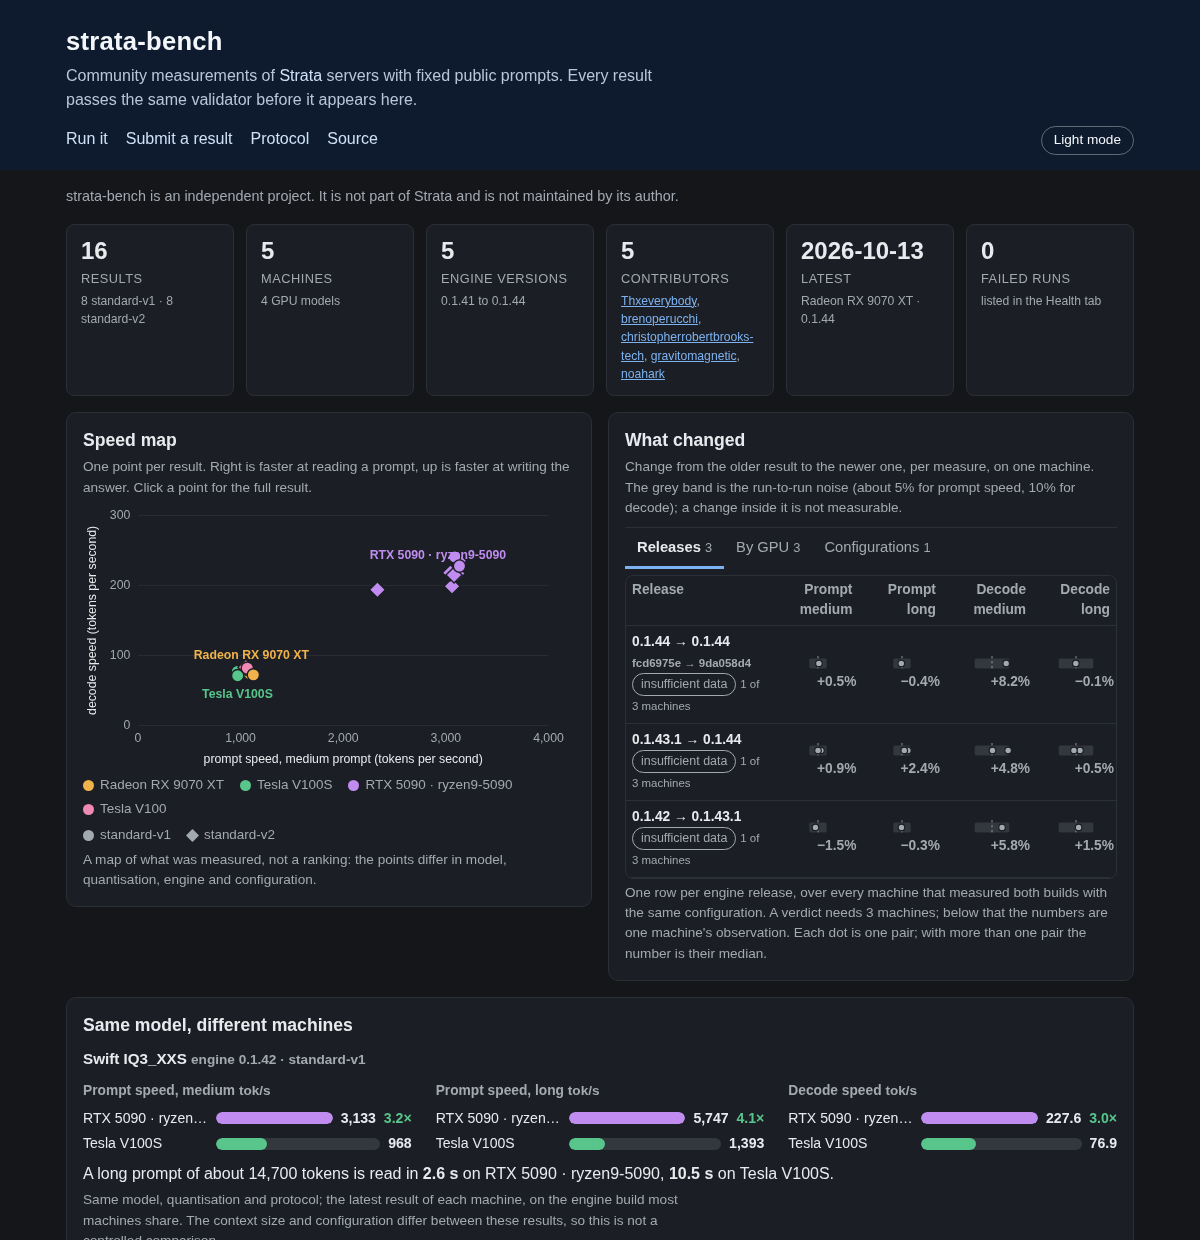
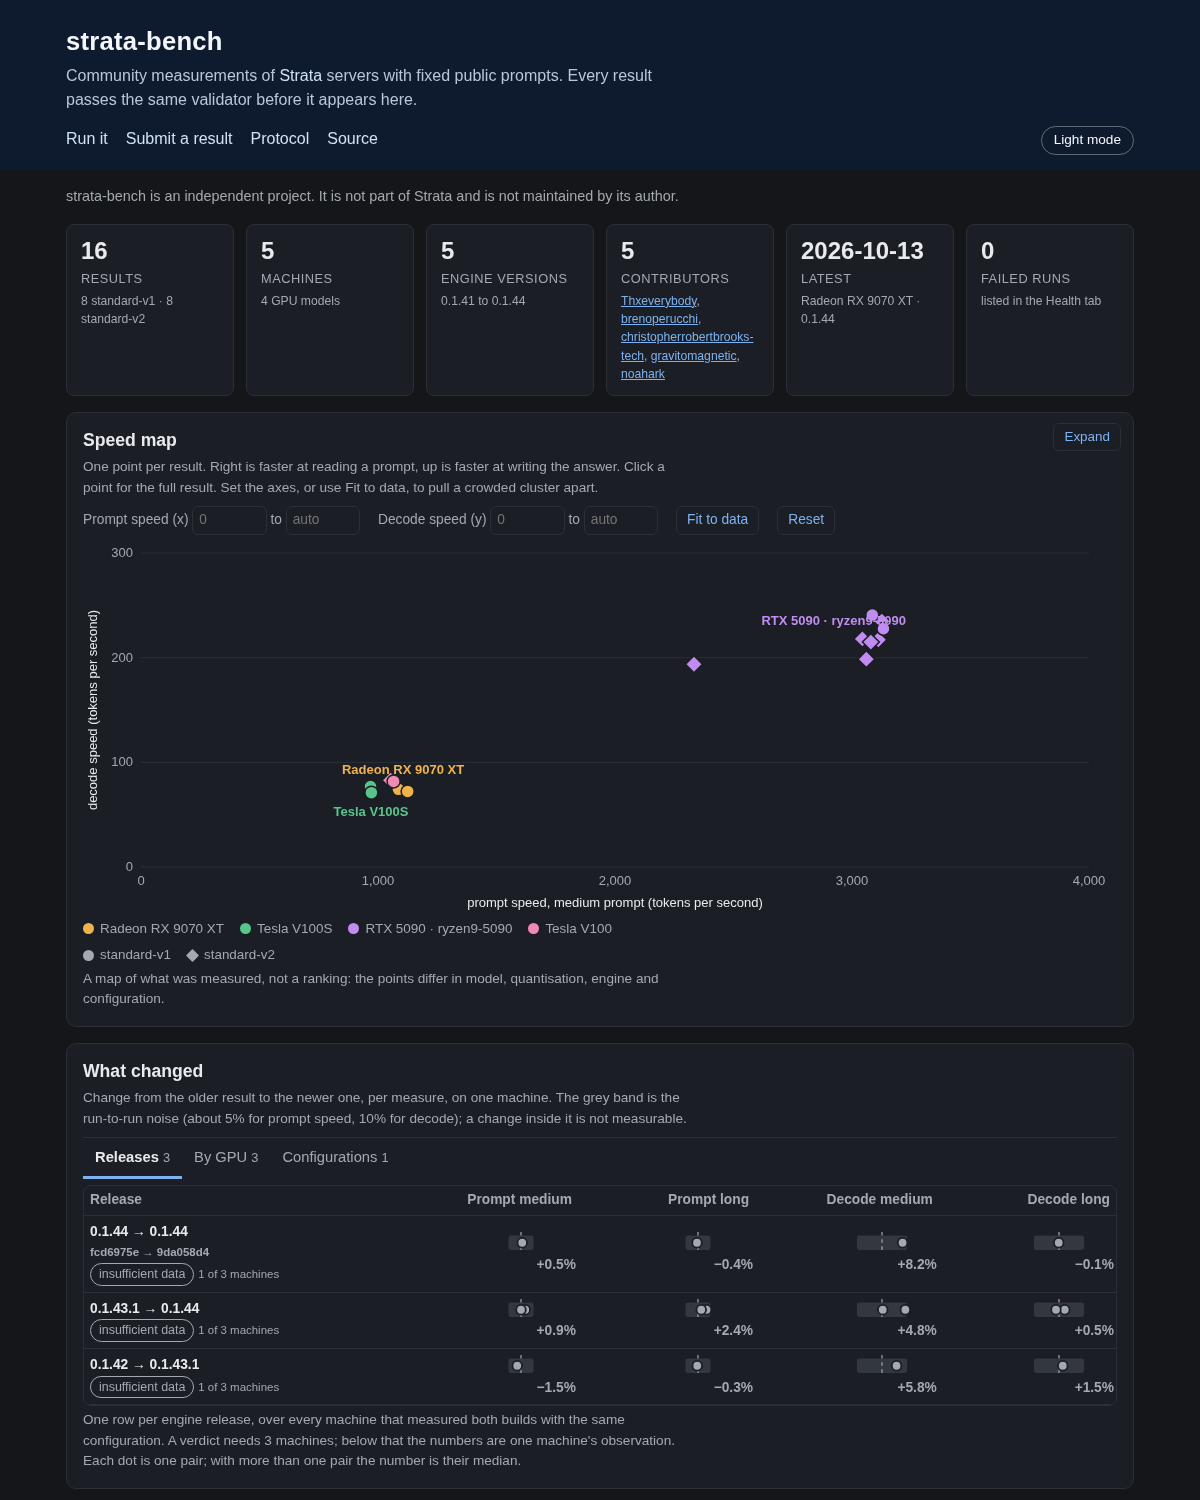
Overview: speed map and What changed at full width, speed map axes that can be set or fitted to the data
The speed map is drawn at the width its card has (and again when expanded). Its axes take a typed range or Fit to data, so results that sit close together can be pulled apart; results outside the range are counted, not hidden. README screenshots refreshed.

diff --git a/docs/overview.js b/docs/overview.js
@@ -40,16 +40,42 @@
 
   var niceStep = function (v) { var p = Math.pow(10, Math.floor(Math.log10(v))), n = v / p; return (n <= 1 ? 1 : n <= 2 ? 2 : n <= 5 ? 5 : 10) * p; };
 
-  function speedMap(rows) {
+  // The axes the map opens with start at zero; fit() gives the ones that just hold the data, so a cluster of results can be pulled apart.
+  var numOr = function (v) { return typeof v === "number" && isFinite(v) ? v : null; };
+  function fit(rows) {
     var pts = I.speedPoints(rows);
-    if (!pts.length) return "";
-    var mc = machines(rows), W = 520, H = 280, L = 58, R = 28, T = 12, B = 46;
-    var mx = Math.max.apply(null, pts.map(function (p) { return p.x; })) * 1.06, my = Math.max.apply(null, pts.map(function (p) { return p.y; })) * 1.12;
-    var sx = niceStep(mx / 4), sy = niceStep(my / 4), xmax = Math.ceil(mx / sx) * sx, ymax = Math.ceil(my / sy) * sy;
-    var X = function (v) { return L + (W - L - R) * v / xmax; }, Y = function (v) { return H - B - (H - B - T) * v / ymax; };
+    if (!pts.length) return null;
+    var span = function (vals) {
+      var lo = Math.min.apply(null, vals), hi = Math.max.apply(null, vals), pad = Math.max((hi - lo) * 0.1, hi * 0.02, 1e-6), step = niceStep((hi - lo + 2 * pad) / 6);
+      return [Math.max(0, Math.floor((lo - pad) / step) * step), Math.ceil((hi + pad) / step) * step];
+    };
+    var x = span(pts.map(function (p) { return p.x; })), y = span(pts.map(function (p) { return p.y; }));
+    return { xmin: x[0], xmax: x[1], ymin: y[0], ymax: y[1] };
+  }
+
+  // The map is drawn at the width its card has (in CSS pixels, so the text stays at its size): wide on a desktop, narrow on a phone, larger still when expanded.
+  // view = {xmin, xmax, ymin, ymax}: any of them may be missing (zero, or room for the data); results outside the range are left out and counted.
+  function speedMap(rows, width, view) {
+    var all = I.speedPoints(rows);
+    if (!all.length) return "";
+    view = view || {};
+    var W = Math.max(320, Math.min(1400, Math.round(width) || 520)), H = Math.max(260, Math.min(520, Math.round(W * 0.36)));
+    var mc = machines(rows), L = 58, R = 28, T = 12, B = 46;
+    var axis = function (key, grow) {
+      var lo = numOr(view[key + "min"]), hi = numOr(view[key + "max"]), top = Math.max.apply(null, all.map(function (p) { return p[key]; })) * grow;
+      lo = lo === null ? 0 : lo;
+      var open = hi === null || hi <= lo;                          // no usable upper end: leave room for the data
+      if (open) hi = Math.max(top, lo + 1e-6);
+      var step = niceStep((hi - lo) / 4);
+      return { min: lo, max: open ? lo + Math.ceil((hi - lo) / step) * step : hi, step: step };
+    };
+    var ax = axis("x", 1.06), ay = axis("y", 1.12);
+    var xmin = ax.min, xmax = ax.max, sx = ax.step, ymin = ay.min, ymax = ay.max, sy = ay.step;
+    var pts = all.filter(function (p) { return p.x >= xmin && p.x <= xmax && p.y >= ymin && p.y <= ymax; });
+    var X = function (v) { return L + (W - L - R) * (v - xmin) / (xmax - xmin); }, Y = function (v) { return H - B - (H - B - T) * (v - ymin) / (ymax - ymin); };
     var g = "";
-    for (var yv = 0; yv <= ymax + 1e-9; yv += sy) g += "<line class='grid' x1='" + L + "' x2='" + (W - R) + "' y1='" + Y(yv) + "' y2='" + Y(yv) + "'/><text x='" + (L - 8) + "' y='" + (Y(yv) + 4) + "' text-anchor='end'>" + fmt(yv, 0) + "</text>";
-    for (var xv = 0; xv <= xmax + 1e-9; xv += sx) g += "<text x='" + X(xv) + "' y='" + (H - B + 18) + "' text-anchor='middle'>" + fmt(xv, 0) + "</text>";
+    for (var yv = Math.ceil(ymin / sy - 1e-9) * sy + 0; yv <= ymax + 1e-9; yv += sy) g += "<line class='grid' x1='" + L + "' x2='" + (W - R) + "' y1='" + Y(yv) + "' y2='" + Y(yv) + "'/><text x='" + (L - 8) + "' y='" + (Y(yv) + 4) + "' text-anchor='end'>" + fmt(yv, 0) + "</text>";
+    for (var xv = Math.ceil(xmin / sx - 1e-9) * sx + 0; xv <= xmax + 1e-9; xv += sx) g += "<text x='" + X(xv) + "' y='" + (H - B + 18) + "' text-anchor='middle'>" + fmt(xv, 0) + "</text>";
     g += "<text class='axis-title' x='" + (L + W - R) / 2 + "' y='" + (H - 6) + "' text-anchor='middle'>prompt speed, medium prompt (tokens per second)</text>" +
       "<text class='axis-title' x='14' y='" + (T + H - B) / 2 + "' text-anchor='middle' transform='rotate(-90 14 " + (T + H - B) / 2 + ")'>decode speed (tokens per second)</text>";
     pts.forEach(function (p) {
@@ -73,10 +99,14 @@
     var used = {}; pts.forEach(function (p) { used[p.machine] = (used[p.machine] || 0) + 1; });
     var legend = Object.keys(used).sort().map(function (k) { return "<span class='key'><i class='sw " + mc[k].cls + "'></i>" + esc(mc[k].label) + "</span>"; }).join("");
     var shapes = "<span class='key'><i class='sw round'></i>standard-v1</span><span class='key'><i class='sw diamond'></i>standard-v2</span>";
-    return "<button type='button' class='expand' data-expand aria-expanded='false' title='Show the speed map larger'>Expand</button><h2>Speed map</h2><p class='hint'>One point per result. Right is faster at reading a prompt, up is faster at writing the answer. Click a point for the full result.</p>" +
+    var field = function (key, name, ph) { return "<input type='number' step='any' min='0' data-axis='" + key + "' aria-label='" + name + "' placeholder='" + ph + "' value='" + (numOr(view[key]) === null ? "" : esc(view[key])) + "'>"; };
+    var controls = "<div class='axes'><span>Prompt speed (x) " + field("xmin", "x axis from", "0") + " to " + field("xmax", "x axis to", "auto") + "</span><span>Decode speed (y) " + field("ymin", "y axis from", "0") + " to " + field("ymax", "y axis to", "auto") + "</span>" +
+      "<button type='button' data-fit>Fit to data</button><button type='button' data-reset>Reset</button></div>";
+    var outside = all.length - pts.length ? "<p class='hint'>" + (all.length - pts.length) + " of " + all.length + " results are outside this range. <b>Reset</b> shows them all.</p>" : "";
+    return "<button type='button' class='expand' data-expand aria-expanded='false' title='Show the speed map larger'>Expand</button><h2>Speed map</h2><p class='hint'>One point per result. Right is faster at reading a prompt, up is faster at writing the answer. Click a point for the full result. Set the axes, or use Fit to data, to pull a crowded cluster apart.</p>" + controls +
       "<svg class='viz' viewBox='0 0 " + W + " " + H + "' role='img' aria-label='Decode speed against prompt speed, one point per result'>" + g + "</svg>" +
       "<div class='legend'>" + legend + "</div><div class='legend'>" + shapes + "</div>" +
-      "<p class='hint'>A map of what was measured, not a ranking: the points differ in model, quantisation, engine and configuration.</p>";
+      outside + "<p class='hint'>A map of what was measured, not a ranking: the points differ in model, quantisation, engine and configuration.</p>";
   }
 
   var DOMAIN = 20;                                           // the strips show -20% to +20%; a larger change sits at the edge and its value is written out
@@ -193,7 +223,7 @@
     return "<h2>Same model, different machines</h2>" + one(list[0]) + (list.length > 1 ? "<details class='more'><summary>Show " + (list.length - 1) + " more</summary>" + list.slice(1, 8).map(one).join("") + "</details>" : "");
   }
 
-  var api = { kpi: kpi, speedMap: speedMap, pairs: pairs, sameModel: sameModel, machines: machines };
+  var api = { kpi: kpi, speedMap: speedMap, fit: fit, pairs: pairs, sameModel: sameModel, machines: machines };
   root.StrataOverview = api;
   if (typeof module !== "undefined" && module.exports) module.exports = api;
 })(typeof window !== "undefined" ? window : this);

diff --git a/docs/app.js b/docs/app.js
@@ -20,24 +20,40 @@
   function overview(rows) {
     var O = typeof StrataOverview !== "undefined" ? StrataOverview : null;
     if (!O || !rows.length) return;
-    var panels = [["ov-map", O.speedMap], ["ov-pairs", O.pairs], ["ov-same", O.sameModel]];
-    panels.forEach(function (p) { var html = p[1](rows); $(p[0]).innerHTML = html; $(p[0]).hidden = !html; });
-    $("overview").hidden = false;
-    expandable($("ov-map"));
+    $("overview").hidden = false;                                  // shown first: the speed map is drawn at the width its card has
+    [["ov-pairs", O.pairs], ["ov-same", O.sameModel]].forEach(function (p) { var html = p[1](rows); $(p[0]).innerHTML = html; $(p[0]).hidden = !html; });
+    var map = $("ov-map");
+    var view = {};                                                  // the axis ranges typed in; empty means the default
+    var draw = function () { var w = map.clientWidth; map.innerHTML = O.speedMap(rows, w ? w - 32 : 0, view); map.hidden = !map.innerHTML; syncExpand(map); };
+    draw();
+    expandable(map, draw, view, function () { return O.fit(rows); });
   }
 
-  // The speed map can be opened over the page: a button on the card, and Escape or the button again to close it.
-  function expandable(panel) {
+  // The speed map can be opened over the page: a button on the card, and Escape or the button again to close it. It is redrawn at each size.
+  function syncExpand(panel) {
+    var on = !!(panel.classList && panel.classList.contains("expanded")), b = panel.querySelector("[data-expand]");
+    if (b) { b.setAttribute("aria-expanded", String(on)); b.textContent = on ? "Close" : "Expand"; b.title = on ? "Back to the page" : "Show the speed map larger"; }
+  }
+  function expandable(panel, draw, view, fit) {
     if (!panel || !panel.addEventListener) return;
-    var set = function (on) {
-      panel.classList.toggle("expanded", on);
-      var b = panel.querySelector("[data-expand]");
-      if (b) { b.setAttribute("aria-expanded", String(on)); b.textContent = on ? "Close" : "Expand"; b.title = on ? "Back to the page" : "Show the speed map larger"; }
-    };
+    var set = function (on) { panel.classList.toggle("expanded", on); draw(); };
+    var closest = function (e, sel) { return e.target && e.target.closest && e.target.closest(sel); };
     panel.addEventListener("click", function (e) {
-      if (e.target && e.target.closest && e.target.closest("[data-expand]")) set(!panel.classList.contains("expanded"));
+      if (closest(e, "[data-expand]")) set(!panel.classList.contains("expanded"));
+      else if (closest(e, "[data-fit]")) { var f = fit(); if (f) { ["xmin", "xmax", "ymin", "ymax"].forEach(function (k) { view[k] = f[k]; }); draw(); } }
+      else if (closest(e, "[data-reset]")) { ["xmin", "xmax", "ymin", "ymax"].forEach(function (k) { delete view[k]; }); draw(); }
+    });
+    panel.addEventListener("change", function (e) {                 // an axis box was edited: empty, or a number
+      var box = closest(e, "[data-axis]"); if (!box) return;
+      var v = parseFloat(box.value);
+      if (isFinite(v) && v >= 0) view[box.getAttribute("data-axis")] = v; else delete view[box.getAttribute("data-axis")];
+      draw();
     });
     if (typeof document.addEventListener === "function") document.addEventListener("keydown", function (e) { if (e.key === "Escape" && panel.classList.contains("expanded")) set(false); });
+    if (typeof window !== "undefined" && typeof window.addEventListener === "function") {
+      var width = panel.clientWidth, timer = null;
+      window.addEventListener("resize", function () { clearTimeout(timer); timer = setTimeout(function () { if (Math.abs(panel.clientWidth - width) > 8) { width = panel.clientWidth; draw(); } }, 150); });
+    }
   }
 
   function filters(rows) {

diff --git a/docs/style.css b/docs/style.css
@@ -169,7 +169,7 @@ table.pairs td.num small { color: var(--muted); font-size: .72rem; white-space: 
 .chip.up { color: var(--good); } .chip.down { color: var(--bad); }
 .val.up { color: var(--good); } .val.down { color: var(--bad); } .val.weak { color: var(--muted); }
 table.pairs .val { display: block; font-weight: 600; }
-svg.viz.mini { display: block; width: 76px; height: auto; margin: 0 0 1px auto; font-size: 11px; }
+svg.viz.mini { display: block; width: 110px; height: auto; margin: 0 0 1px auto; font-size: 11px; }
 .pill.muted { color: var(--muted); }
 details.gpu { margin: 6px 0; border-bottom: 1px solid var(--line); }
 details.gpu > summary, details.more > summary { cursor: pointer; padding: 6px 0; font-weight: 600; }
@@ -185,4 +185,7 @@ details.gpu > summary { color: var(--fg); }
 #ov-map .expand { position: absolute; top: 10px; right: 12px; background: var(--card); color: var(--accent); border: 1px solid var(--line); border-radius: 6px; padding: 3px 10px; font: inherit; font-size: .84rem; cursor: pointer; }
 #ov-map .expand:hover { border-color: var(--accent); }
 #ov-map.expanded { position: fixed; inset: 12px; z-index: 50; overflow: auto; box-shadow: 0 0 0 100vmax rgba(0, 0, 0, .55); padding: 18px 22px; }
-#ov-map.expanded svg.viz { max-height: calc(100vh - 230px); }
+.axes { display: flex; flex-wrap: wrap; align-items: center; gap: 8px 18px; margin: 8px 0 2px; font-size: .86rem; color: var(--muted); }
+.axes input { width: 5.4em; padding: 3px 6px; font: inherit; color: var(--fg); background: var(--card); border: 1px solid var(--line); border-radius: 6px; }
+.axes button { background: var(--card); color: var(--accent); border: 1px solid var(--line); border-radius: 6px; padding: 3px 10px; font: inherit; cursor: pointer; }
+.axes button:hover { border-color: var(--accent); }

diff --git a/docs/index.html b/docs/index.html
@@ -25,8 +25,8 @@
   <p class="note" id="independence">strata-bench is an independent project. It is not part of Strata and is not maintained by its author.</p>
   <section id="cards" class="cards" aria-label="Summary"></section>
   <section id="overview" class="overview" aria-label="Overview" hidden>
-    <article class="panel" id="ov-map"></article>
-    <article class="panel" id="ov-pairs"></article>
+    <article class="panel full" id="ov-map"></article>
+    <article class="panel full" id="ov-pairs"></article>
     <article class="panel full" id="ov-same"></article>
   </section>
   <div class="tabs" role="tablist">

diff --git a/tests/test_overview.py b/tests/test_overview.py
@@ -226,6 +226,21 @@ class OverviewHtml(unittest.TestCase):
         self.assertIn("data-expand", app)
         self.assertIn("Escape", app)
 
+    def test_the_speed_map_axes_can_be_set_and_leave_out_what_falls_outside(self):
+        rows = self.rows()
+        js = ("const O = require('./docs/overview.js'); const rows = %s; const view = %s; const h = O.speedMap(rows, 900, view);"
+              "console.log(JSON.stringify({dots: (h.match(/class='dot /g) || []).length, outside: (h.match(/(\\d+) of (\\d+) results are outside/) || []).slice(1), fit: O.fit(rows)}));")
+        base = run_node(js % (json.dumps(rows), "{}"))
+        self.assertEqual((base["dots"], base["outside"]), (3, []))
+        zoom = run_node(js % (json.dumps(rows), json.dumps({"xmin": 1100, "xmax": 4000, "ymin": 50, "ymax": 300})))
+        self.assertEqual((zoom["dots"], zoom["outside"]), (1, ["2", "3"]))           # only the result at 1,200 tok/s is inside; the other two are counted, not hidden
+        bad = run_node(js % (json.dumps(rows), json.dumps({"xmin": 5, "xmax": 1})))
+        self.assertEqual(bad["dots"], 3)                                             # an upper end below the lower end is ignored
+        f = base["fit"]
+        self.assertTrue(f["xmin"] > 0 and f["xmin"] <= 1000 and f["xmax"] >= 1200)   # the fit holds every point with room, and does not start at zero
+        fitted = run_node(js % (json.dumps(rows), json.dumps(f)))
+        self.assertEqual((fitted["dots"], fitted["outside"]), (3, []))
+
     def test_the_page_loads_the_insight_modules_before_the_app(self):
         html = (ROOT / "docs" / "index.html").read_text()
         self.assertLess(html.index("insights.js"), html.index("overview.js"))

diff --git a/README.md b/README.md
@@ -7,7 +7,7 @@ Community measurements of [Strata](https://github.com/Niko1221/Strata) servers w
   <a href="https://brenoperucchi.github.io/strata-bench/">
     <picture>
       <source media="(prefers-color-scheme: dark)" srcset="docs/img/dashboard-dark.png">
-      <img src="docs/img/dashboard.png" alt="The strata-bench dashboard: a summary strip, a speed map of every result, what changed between engine releases, drawn against a noise band, and the same model on an RTX 5090 and a Tesla V100S" width="900">
+      <img src="docs/img/dashboard.png" alt="The strata-bench dashboard: a summary strip, a full-width speed map of every result, what changed between engine releases, drawn against a noise band, and the same model on an RTX 5090 and a Tesla V100S" width="900">
     </picture>
   </a>
 </p>
@@ -18,7 +18,7 @@ strata-bench is an independent project. It is not part of Strata and is not main
 
 - A runner that measures a Strata server you already run and writes one `result.json` (schema `strata-bench/v1`, or `strata-bench/v2` with `--protocol standard-v2`) per configuration.
 - A validator that is the public-export gate: it accepts only results of the public protocol and refuses anything that looks like a local path, a private address or a secret.
-- A dashboard with an overview and two views. The overview opens with a summary strip, a speed map (one point per result), a "What changed" panel with three tabs (Releases: one row per engine release over every machine, By GPU: each machine's comparisons in compact rows, Configurations: the arguments that differ), drawn against the run-to-run noise band, and the same model on different machines. The panel keeps its height as results grow: groups fold and long lists stop at five rows. It says "insufficient data" instead of a verdict until three machines back a release, and a pair where the build and the configuration changed together is shown but flagged, since it does not say which one moved the numbers. Performance lists every result with prompt and decode speeds side by side for the same model and config. Tick two or three results and Compare opens them side by side, with a scoreboard of who is in front on more measures: only measures present in every selected result count, a lead inside the run-to-run noise band is a tie, and it says in words that this counts measures and does not show one setup is better overall or why. Health lists the catastrophic failures that runs recorded: crash, out of memory, degenerate output, hang, server error.
+- A dashboard with an overview and two views. The overview opens with a summary strip, a full-width speed map (one point per result; Expand opens it over the page, and the axis ranges can be typed in or fitted to the data to pull a crowded cluster apart), a "What changed" panel with three tabs (Releases: one row per engine release over every machine, By GPU: each machine's comparisons in compact rows, Configurations: the arguments that differ), drawn against the run-to-run noise band, and the same model on different machines. The panel keeps its height as results grow: groups fold and long lists stop at five rows. It says "insufficient data" instead of a verdict until three machines back a release, and a pair where the build and the configuration changed together is shown but flagged, since it does not say which one moved the numbers. Performance lists every result with prompt and decode speeds side by side for the same model and config. Tick two or three results and Compare opens them side by side, with a scoreboard of who is in front on more measures: only measures present in every selected result count, a lead inside the run-to-run noise band is a tie, and it says in words that this counts measures and does not show one setup is better overall or why. Health lists the catastrophic failures that runs recorded: crash, out of memory, degenerate output, hang, server error.
 
 ## Run it
 
